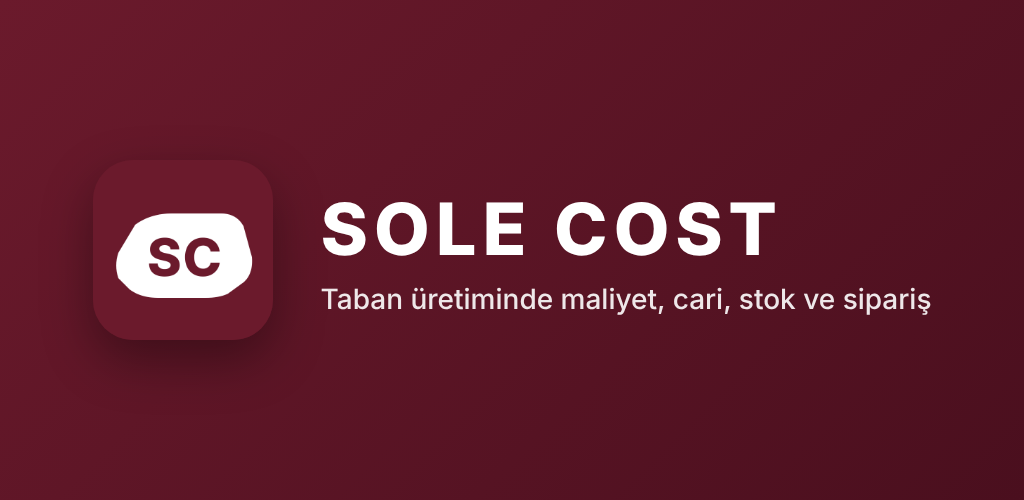
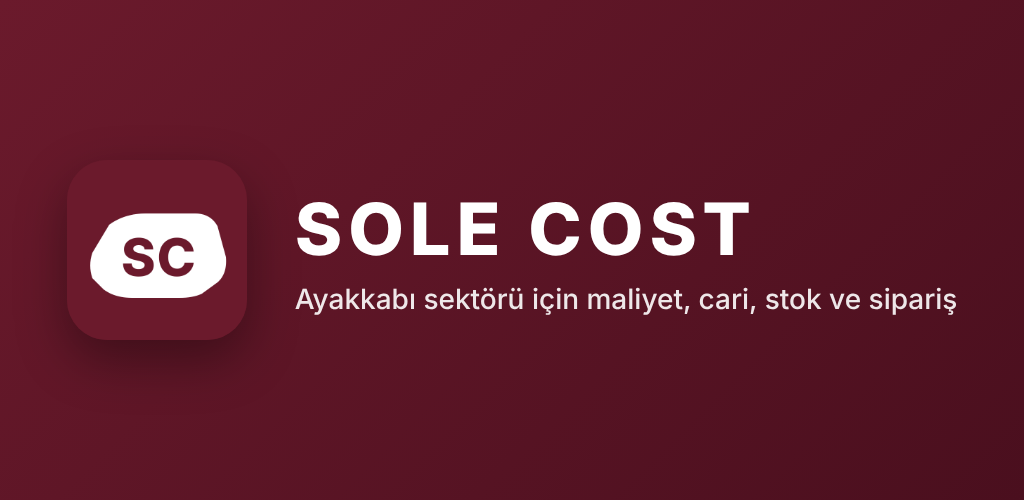
Tanıtım metinleri tüm ayakkabı sektörüne göre
Uygulama yalnızca taban üreticileri için değil; ayakkabı, taban, hammadde ve
yan sanayi firmalarının hepsi kullanabilir. Web ana sayfası ve başlığı, giriş
açıklaması, mobil giriş/karşılama alt yazısı, Play mağaza metni ve öne çıkan
görsel buna göre güncellendi. Modül adları (ör. Taban Maliyet Hesapla) aynı.

Claude-Session: https://claude.ai/code/session_01GVHeZQNxGFWRmov7m8VxQu

diff --git a/app/page.tsx b/app/page.tsx
@@ -134,7 +134,7 @@ export default function LandingPage() {
           <div className="max-w-2xl">
             <div className="inline-flex items-center gap-2 px-3 py-1.5 bg-blue-500/20 border border-blue-500/30 rounded-full text-blue-300 text-xs font-medium mb-6">
               <span className="w-1.5 h-1.5 bg-blue-400 rounded-full inline-block" />
-              Taban üretimi için ERP
+              Ayakkabı sektörü için ERP
             </div>
             <h1 className="text-4xl md:text-5xl font-extrabold leading-tight mb-5 tracking-tight">
               Üretimi yönet,<br />
@@ -182,7 +182,7 @@ export default function LandingPage() {
           <div className="text-center mb-12">
             <h2 className="text-3xl font-bold text-slate-900 mb-3">Her şey tek platformda</h2>
             <p className="text-slate-500 max-w-lg mx-auto">
-              Taban üretiminin tüm süreçlerini kapsayan modüler yapı — ihtiyacınız olan her şey hazır.
+              Ayakkabı, taban ve yan sanayi üretiminin tüm süreçlerini kapsayan modüler yapı — ihtiyacınız olan her şey hazır.
             </p>
           </div>
           <div className="grid grid-cols-1 sm:grid-cols-2 lg:grid-cols-3 gap-5">

diff --git a/lib/i18n/translations.ts b/lib/i18n/translations.ts
@@ -85,7 +85,7 @@ export const translations = {
       hasAccount: 'Zaten hesabınız var mı?',
       loginTitle: 'Hesabınıza Giriş Yapın',
       registerTitle: 'Yeni Hesap Oluşturun',
-      loginDesc: 'Taban maliyet hesaplama platformuna hoş geldiniz',
+      loginDesc: 'Ayakkabı sektörünün işletme platformuna hoş geldiniz',
       registerDesc: 'Ücretsiz hesap oluşturun ve hemen başlayın',
     },
     dashboard: {
@@ -551,7 +551,7 @@ export const translations = {
       hasAccount: 'Already have an account?',
       loginTitle: 'Sign In to Your Account',
       registerTitle: 'Create New Account',
-      loginDesc: 'Welcome to the sole cost calculation platform',
+      loginDesc: 'Welcome to the business platform for the footwear industry',
       registerDesc: 'Create a free account and get started',
     },
     dashboard: {

diff --git a/app/layout.tsx b/app/layout.tsx
@@ -9,8 +9,8 @@ const inter = Inter({ subsets: ['latin'] });
 
 export const metadata: Metadata = {
   metadataBase: new URL(process.env.NEXTAUTH_URL || 'http://localhost:3000'),
-  title: 'SoleCost - Taban Maliyet Hesaplama',
-  description: 'Ayakkabı taban maliyet hesaplama SaaS uygulaması',
+  title: 'SoleCost - Ayakkabı Sektörü için Maliyet, Cari, Stok ve Sipariş',
+  description: 'Ayakkabı, taban ve yan sanayi firmaları için maliyet, cari, stok ve sipariş yönetimi',
   icons: {
     icon: '/favicon.svg',
     shortcut: '/favicon.svg',

diff --git a/mobile/src/components/welcome.tsx b/mobile/src/components/welcome.tsx
@@ -58,7 +58,7 @@ export function Welcome() {
         </Animated.View>
         <Animated.View style={[{ alignItems: 'center', gap: 6 }, subtitleStyle]}>
           <Text style={styles.greeting}>{firstName ? `Hoş geldiniz, ${firstName}` : 'Hoş geldiniz'}</Text>
-          <Text style={styles.subtitle}>Taban üretiminde maliyet, cari ve sipariş</Text>
+          <Text style={styles.subtitle}>Ayakkabı sektöründe maliyet, cari ve sipariş</Text>
         </Animated.View>
         <View style={styles.bar} />
       </Pressable>

diff --git a/mobile/src/app/login.tsx b/mobile/src/app/login.tsx
@@ -63,7 +63,7 @@ export default function Login() {
         <View style={styles.brand}>
           <BrandMark size={64} />
           <T variant="title">SoleCost</T>
-          <T variant="small">Taban üretiminde maliyet, cari ve stok</T>
+          <T variant="small">Ayakkabı sektöründe maliyet, cari ve stok</T>
         </View>
 
         <Segmented

diff --git a/mobile/store/android/listing-tr.md b/mobile/store/android/listing-tr.md
@@ -3,13 +3,13 @@
 Play Console → Büyüme → Mağazadaki varlık → Ana mağaza kaydı alanlarına kopyalayın.
 
 ## Uygulama adı (en fazla 30 karakter)
-SoleCost: Taban Üretim Takibi
+SoleCost: Ayakkabı İşletme
 
 ## Kısa açıklama (en fazla 80 karakter)
-Taban üreticileri için maliyet, cari, stok, çek ve sipariş takibi tek yerde.
+Ayakkabı sektörü için maliyet, cari, stok, çek ve sipariş takibi tek yerde.
 
 ## Tam açıklama (en fazla 4000 karakter)
-SoleCost, ayakkabı tabanı üreten firmalar için hazırlanmış bir işletme uygulamasıdır. Maliyet hesabından cari hesaplara, stoktan siparişe kadar günlük işlerinizi telefonunuzdan takip edin.
+SoleCost, ayakkabı sektöründeki firmalar için hazırlanmış bir işletme uygulamasıdır: ayakkabı ve taban üreticileri, hammadde ve yan sanayi tedarikçileri, toptancılar ve fason atölyeler. Maliyet hesabından cari hesaplara, stoktan siparişe kadar günlük işlerinizi telefonunuzdan takip edin.
 
 CARİ HESAPLAR
 • Müşteri ve tedarikçi listesi, bakiye ve döviz cinsinden alacak/borç
